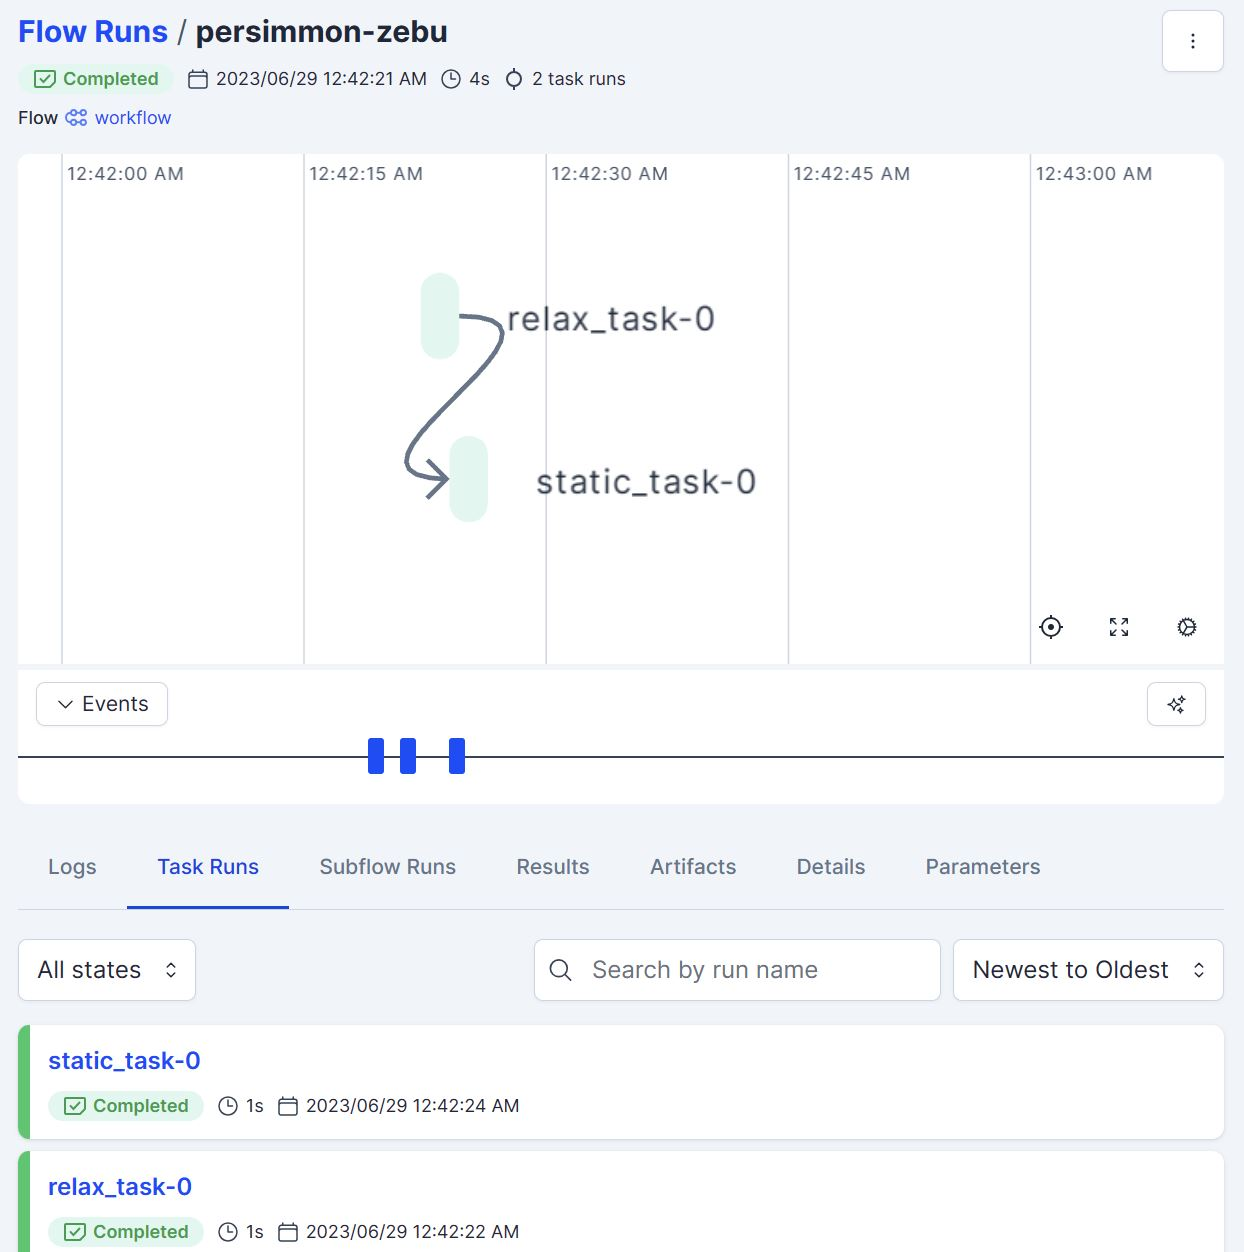
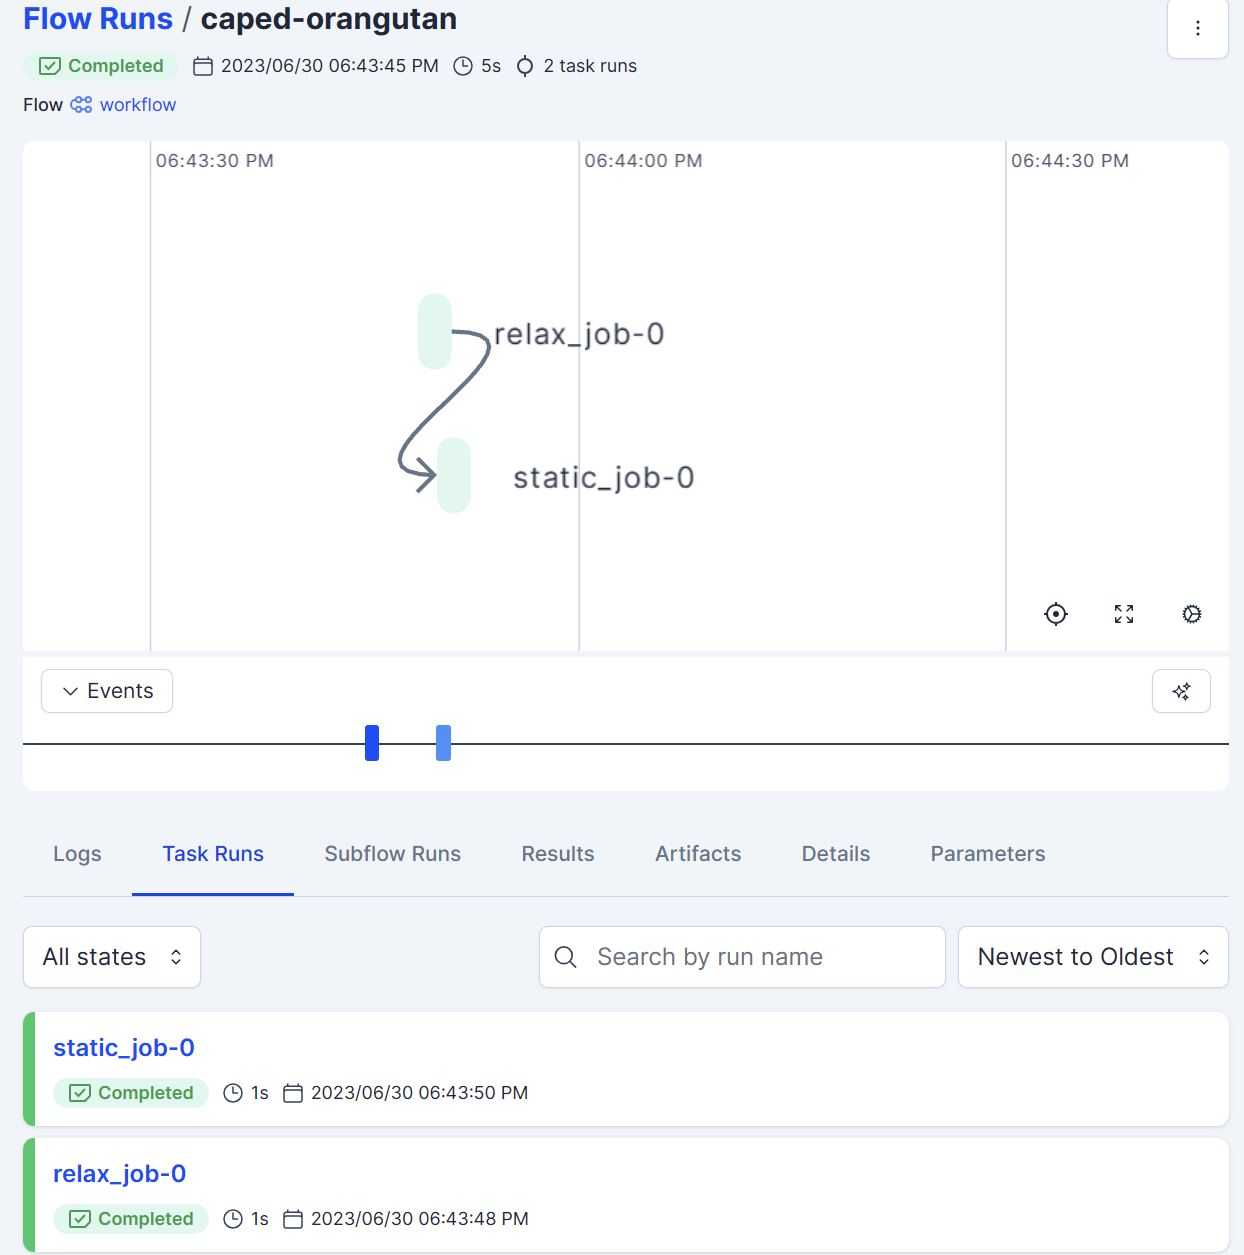
replace image

diff --git a/docs/src/user/alt_workflows/prefect.md b/docs/src/user/alt_workflows/prefect.md
@@ -116,11 +116,7 @@ When running a Covalent-based workflow like {obj}`.emt.slabs.bulk_to_slabs_flow`
 
 #### The Efficient Way
 
-```{warning}
-This section is still under development.
-```
-
-<!-- Quacc fully supports the development of Prefect-based workflows to resolve this limitation. For example, the workflow above can be equivalently run as follows using the Prefect-specific {obj}`.emt.prefect.slabs.bulk_to_slabs_flow` workflow:
+Quacc fully supports the development of Prefect-based workflows to resolve this limitation. For example, the workflow above can be equivalently run as follows using the Prefect-specific {obj}`.emt.prefect.slabs.bulk_to_slabs_flow` workflow.
 
 ```python
 from prefect import flow, task
@@ -144,7 +140,9 @@ result = workflow(atoms)
 print(result)
 ```
 
-In this example, all the individual tasks and sub-tasks are run as separate jobs, which is more efficient. By comparing {obj}`.emt.prefect.slabs.bulk_to_slabs_flow` with its Covalent counterpart {obj}`.emt.slabs.bulk_to_slabs_flow`, you can see that the two are extremely similar such that it is often straightforward to interconvert between the two. The `bulk_to_slabs_flow` used here is a Prefect `Flow` object, which is why we didn't need to wrap it with a `task()`. Since this is a `Flow` within a `Flow`, we call the inner flow a "subflow." -->
+In this example, all the individual tasks and sub-tasks are run as separate jobs, which is more efficient. By comparing {obj}`.emt.prefect.slabs.bulk_to_slabs_flow` with its Covalent counterpart {obj}`.emt.slabs.bulk_to_slabs_flow`, you can see that the two are extremely similar such that it is often straightforward to interconvert between the two. The `bulk_to_slabs_flow` used here is a Prefect `Flow` object, which is why we didn't need to wrap it with a `task()`. Since this is a `Flow` within a `Flow`, we call the inner flow a "subflow."
+
+![Prefect UI](../../_static/user/prefect_tutorial4.jpg)
 
 ## Job Management
 

diff --git a/docs/src/user/covalent.md b/docs/src/user/covalent.md
@@ -125,6 +125,8 @@ print(result)
 
 We have imported the {obj}`.emt.slabs.bulk_to_slabs_flow` function, which takes an `Atoms` object along with several optional parameters. For demonstration purposes, we specify the `slab_static_electron=None` option to do a relaxation but disable the static calculation on each slab. All we have to do to define the workflow is wrap it inside a `@ct.lattice` decorator.
 
+Due to the dynamic nature of `bulk_to_slabs_flow`, the number of returned slabs will be dependent on the input `Atoms` object. The pattern for creating a dynamic workflow in Covalent is called a ["sublattice"](https://docs.covalent.xyz/docs/user-documentation/concepts/covalent-arch/covalent-sdk#sublattice). The sublattice, which is really just a fancy name for a sub-workflow within a larger workflow, and its individual compute tasks can also be viewed in the Covalent UI.
+
 ```{hint}
 You don't need to set `wait=True` in practice. Once you call `ct.dispatch`, the workflow will begin running. The `ct.get_result` function is used to fetch the workflow status and results from the server.
 ```
